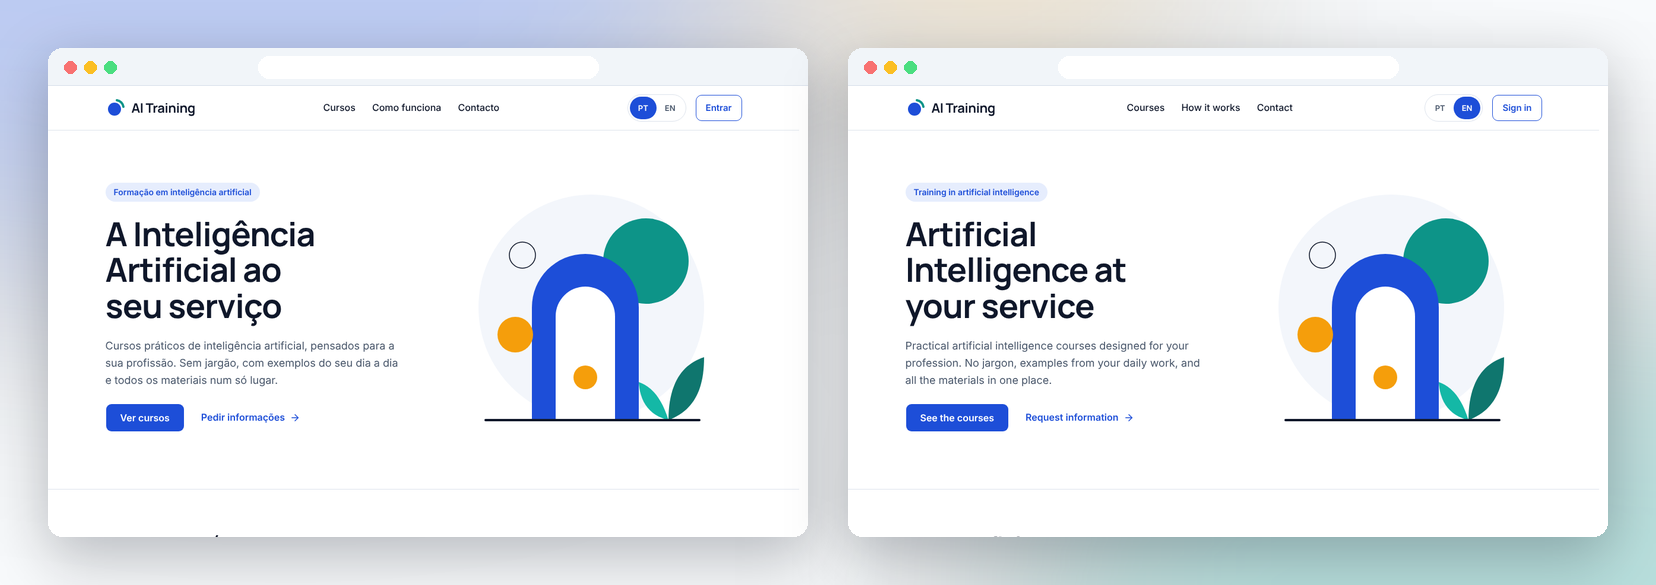
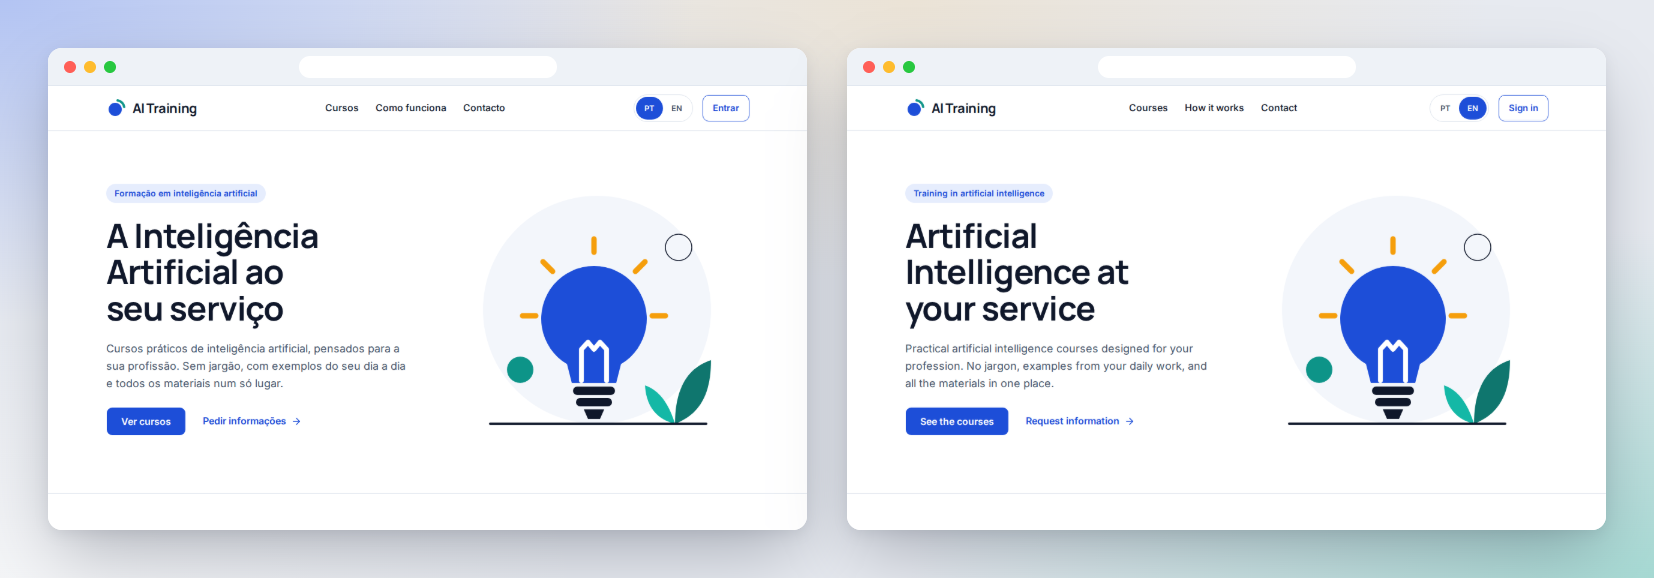
Refresh the README's screenshots and add the script that frames them
The pictures in docs/screenshots/ showed the old hero and icons. They are
now framed from CI's captures of main (b16b15b): the lightbulb hero, the
duotone area icons and the current dashboard. The dashboard caption names
what it now shows.

scripts/frame-screens.mjs (npm run screens:frame) turns the captures in
e2e-screens/ into the framed pictures, so the next refresh is one command.
TECH.md explains how to get the captures, locally or from a CI run.

diff --git a/TECH.md b/TECH.md
@@ -88,6 +88,7 @@ Emails sent locally (invitations, password resets) are caught at <http://127.0.0
 | `npm test`                  | Unit tests (Vitest)                                        |
 | `npm run test:integration`  | Database and API rules against the local Supabase stack    |
 | `npm run e2e`               | End-to-end tests (Playwright) against the production build |
+| `npm run screens:frame`     | Frame the saved screens into the README's pictures         |
 | `npm run db:start`          | Start the local Supabase stack (`db:stop` stops it)        |
 | `npm run db:reset`          | Rebuild the local database from migrations and seed        |
 | `npm run db:types`          | Regenerate `src/lib/supabase/database.types.ts`            |
@@ -247,11 +248,14 @@ jobs. Besides the tests:
 ## Screenshots
 
 The pictures in the [README](README.md) live in `docs/screenshots/`. They are the real screens
-of the app, captured against the demo data and framed afterwards.
+of the app, captured against the demo data and then framed in a browser window or a phone.
 
 The captures come from `e2e/screens.spec.ts`, which is not a test of behaviour: with
 `SCREENS=1` it saves a picture of every main screen, at desktop and phone size, into
 `e2e-screens/` (ignored by Git). CI does this on every run and keeps the pictures for a week.
+
+To refresh the README's pictures, first put the captures in `e2e-screens/`, either by saving
+them yourself:
 
 ```bash
 npm run db:start && npm run env:local && npm run seed:dev
@@ -259,7 +263,22 @@ npm run build
 SCREENS=1 npx playwright test e2e/screens.spec.ts
 ```
 
-The demo data is in Portuguese, the default language, so that is what the screenshots show.
+or by taking them from a CI run (the run's number is in its address on GitHub):
+
+```bash
+rm -rf e2e-screens && gh run download <run number> -n screens -D e2e-screens
+```
+
+Then frame them. This rewrites every picture in `docs/screenshots/`; name some, such as
+`npm run screens:frame -- hero mobile`, to redo only those.
+
+```bash
+npm run screens:frame
+```
+
+Which screen goes in which picture, and how far down each one is cut, is set at the bottom of
+`scripts/frame-screens.mjs`. When a screen grows or a caption in the README changes, adjust it
+there. The demo data is in Portuguese, the default language, so that is what the pictures show.
 
 ## Going live
 

diff --git a/README.md b/README.md
@@ -107,8 +107,9 @@ readings and pages. Everything for the course is on one screen.
 <tr>
 <td valign="top">
 
-**A dashboard that answers "what needs me?"** Published courses, drafts, active learners, pending
-invitations and new requests, with shortcuts to invite someone or start a course.
+**A dashboard that answers "what needs me?"** Published, draft and unlisted courses, active
+learners, pending invitations and new requests, the latest of each listed below, and shortcuts to
+invite someone or start a course.
 
 </td>
 <td valign="top">
